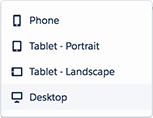
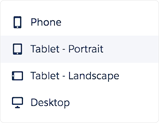
Chapter 6 step 5 issue-#46 change dropdown hilight from Dektop to tablet-portrait

diff --git a/src/styles/_customize-page-layout.scss b/src/styles/_customize-page-layout.scss
@@ -27,9 +27,9 @@
       left: 216px;
     }
     .click-box-1 {
-      top: 164px;
+      top: 117px;
       left: 218px;
-      width: 150px;
+      width: 157px;
       height: 26px;
     }
   }
